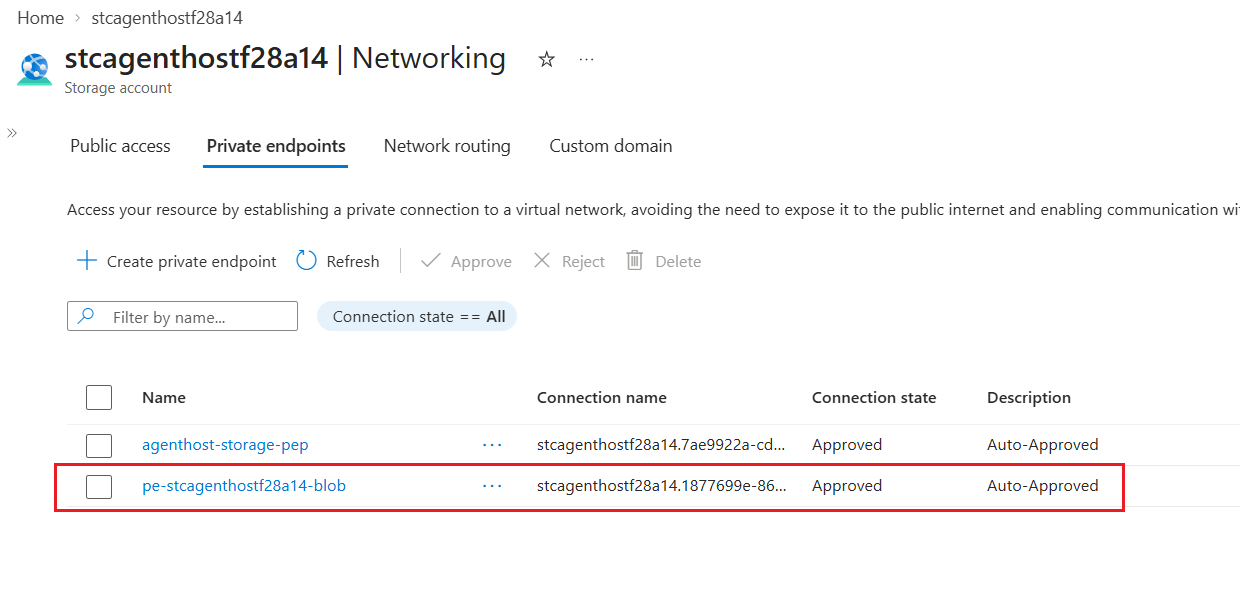
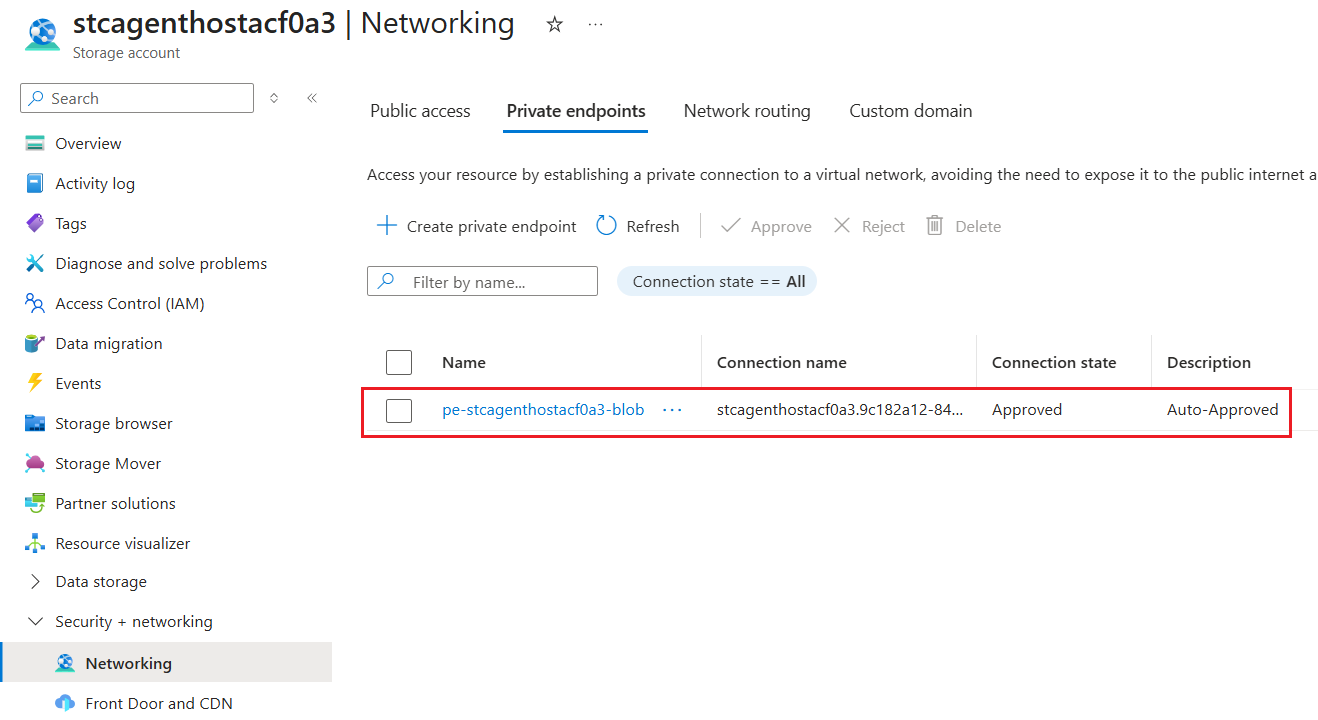
docs: Update Module 3 README with improved clarity and additional tips; update images for blob private endpoint and agent pod verification

diff --git a/agenthost/module-03/README.md b/agenthost/module-03/README.md
@@ -237,14 +237,13 @@ kubectl apply -f agent-sandbox.yaml
 
 Complete this section only when the Module 1 Storage account has public network access disabled.
 
-[!tip]
+> [!tip]
+> **Azure Policy may enforce this Storage account setting in your environment.**
+>
 >You can check it in your storage account portal, go to the **Networking** tab, you will see if your storage account public network access is disabled or not:
 >![module-03-storageaccount-disable-public-network-access](../pic/module-03-storageaccount-disable-public-network-access.png)
 
 If your storage account has public network access disabled, the AKS-managed VNet needs private connectivity to the Blob endpoint before the agent can read or write its persisted state. 
-
-> [!tip]
-> **Azure Policy may enforce this Storage account setting in your environment.**
 
 Run the following script to establish private connectivity between the AKS-managed VNet and the storage account:
 
@@ -259,7 +258,7 @@ The script may ask you to confirm that it detected the correct AKS-managed VNet:
     First VNet in rg-aks-agenthost-acf0a3-nodes: aks-vnet-39076840
 Continue with this VNet? [y/N]: y
 ```
-Verify the VNet name in the AKS node resource group. If the detected VNet is correct, enter **y** to continue. Otherwise, enter **N** to stop the script, then rerun it with the VNet name specified explicitly:
+Verify the VNet name in the **AKS node resource group**. If the detected VNet is correct, enter **y** to continue. Otherwise, enter **N** to stop the script, then rerun it with the VNet name specified explicitly:
 
 ```bash
 VNET_NAME=<aks-vnet-name> ./deploy-storage-private-link.sh
@@ -275,7 +274,7 @@ VNET_NAME=<aks-vnet-name> ./deploy-storage-private-link.sh
 > The VNet and subnet remain in the **AKS node resource group**. The Private Endpoint and Private DNS resources are created in the **workshop resource group**.
 
 
-**Expected output (if you do not provide the VNet name explicitly):**
+**Expected output after `deploy-storage-private-link.sh` completes successfully:**
 
 ```text
     Auto-selected subnet prefix for snet-private-endpoints: 10.225.0.0/24
@@ -314,6 +313,8 @@ In the Azure portal, open the storage account and confirm that the private endpo
 Run the following commands to verify that the Sandbox and its pod are ready, and that the controller is running:
 
 ```bash
+export NAMESPACE="agent"
+
 # The Sandbox CR and its pod
 kubectl get sandbox,pods -n "$NAMESPACE"
 kubectl wait --for=condition=Ready pod -l app=agent-host -n "$NAMESPACE" --timeout=3m
@@ -494,11 +495,11 @@ the type `prompt`:
 
 ### Verify that the agent reloads its state after resuming
 
-In the AKS portal, delete the agent pod:
+In the Azure portal, open the AKS cluster, go to **Workloads**, select the agent pod, and then click **Delete**:
 ![module-03-delete-agent-pod-to-verify-load-state](../pic/module-03-delete-agent-pod-to-verify-load-state.png)
 
-Refresh the agent chat window in the browser. The agent connection will be unavailable temporarily.
-After the agent pod resumes, the previous chat history should load into the chat window again.
+Refresh the agent chat window in your browser. The agent will be temporarily unavailable while the pod restarts.
+After the pod is running again, refresh the page. The previous chat history should be restored.
 
 ### Lifecycle (idle suspend/resume model)
 
@@ -608,6 +609,7 @@ The output indicates:
 3. The Sandbox status is `False/SandboxSuspended`, which means it is not ready.
 
 If you refresh the Agent Chat UI in the browser, it will be unreachable.
+If you refresh the **Workloads -> Pods** in AKS portal, our agent pod `agent-host` dispears. 
 
 Next, resume the pod and Sandbox to simulate traffic returning:
 
@@ -657,7 +659,8 @@ The output indicates:
 2. The Services are running and healthy.
 3. The Sandbox status is `True/DependenciesReady`.
 
-> If you refresh the Agent Chat UI in the browser, it should be available again, with the previous chat history restored.
+> [!tip]
+> If you refresh the Agent Chat UI in the browser, it should be available again, with the previous **chat history restored.**
 
 
 Anytime you can inspect the Sandbox lifecycle status with the following command:
